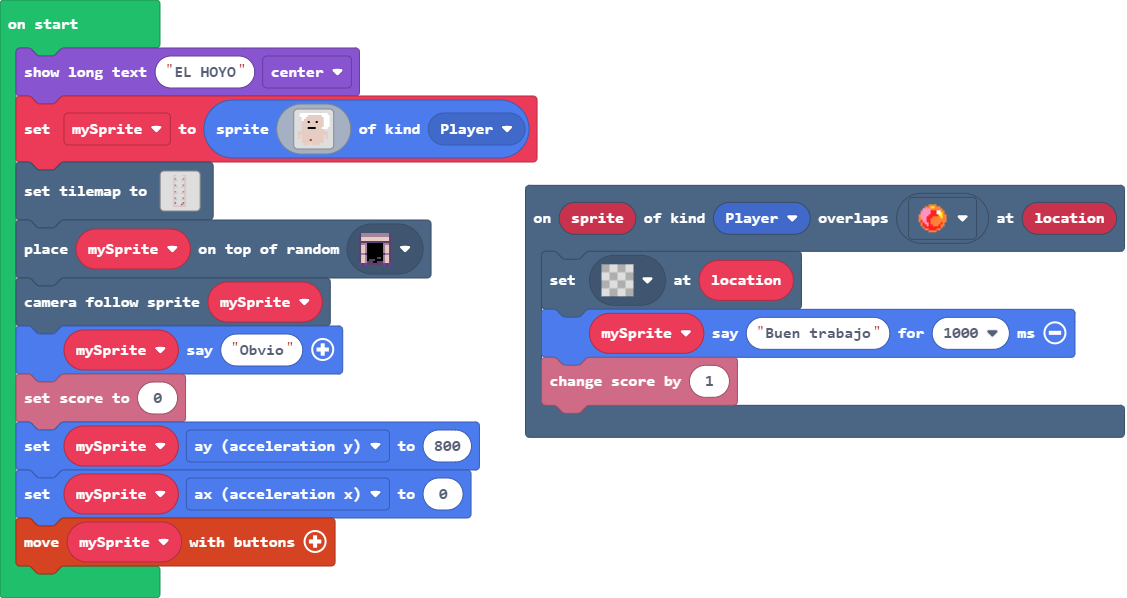
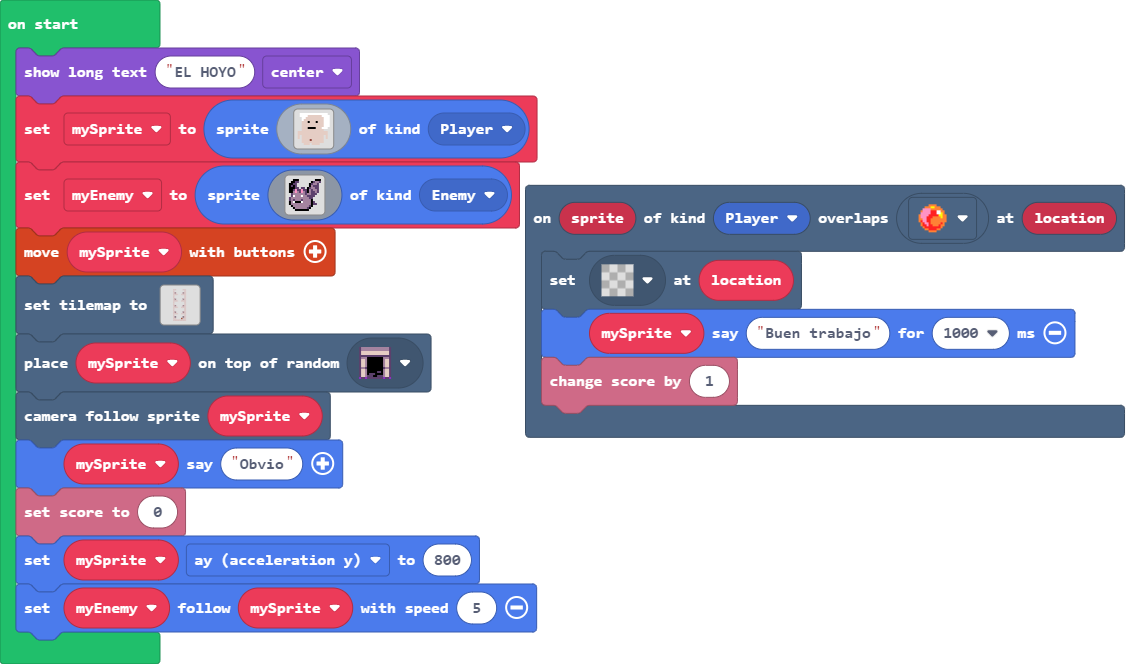
Update main.blocks, main.ts

diff --git a/main.ts b/main.ts
@@ -28,6 +28,25 @@ mySprite = sprites.create(img`
     . . d d d d d d d d d d d . . . 
     . . . d d d . d d d d . . . . . 
     `, SpriteKind.Player)
+let myEnemy = sprites.create(img`
+    . . f f f . . . . . . . . f f f 
+    . f f c c . . . . . . f c b b c 
+    f f c c . . . . . . f c b b c . 
+    f c f c . . . . . . f b c c c . 
+    f f f c c . c c . f c b b c c . 
+    f f c 3 c c 3 c c f b c b b c . 
+    f f b 3 b c 3 b c f b c c b c . 
+    . c b b b b b b c b b c c c . . 
+    . c 1 b b b 1 b b c c c c . . . 
+    c b b b b b b b b b c c . . . . 
+    c b c b b b c b b b b f . . . . 
+    f b 1 f f f 1 b b b b f c . . . 
+    f b b b b b b b b b b f c c . . 
+    . f b b b b b b b b c f . . . . 
+    . . f b b b b b b c f . . . . . 
+    . . . f f f f f f f . . . . . . 
+    `, SpriteKind.Enemy)
+controller.moveSprite(mySprite)
 tiles.setTilemap(tiles.createTilemap(hex`0800140001010000000001010100000000000001010400000000030101010100000101010100000000000001010000000000000101030000000004010101010000010101010000000000000101000000000000010104000000000301010101000001010101000000000000010100000000000001010300000000040101010100000101010100000000000001010200000000020101010000000501010101010101010101`, img`
     2 2 . . . . 2 2 
     2 . . . . . . 2 
@@ -55,5 +74,4 @@ scene.cameraFollowSprite(mySprite)
 mySprite.say("Obvio")
 info.setScore(0)
 mySprite.ay = 800
-mySprite.ax = 0
-controller.moveSprite(mySprite)
+myEnemy.follow(mySprite, 5)
